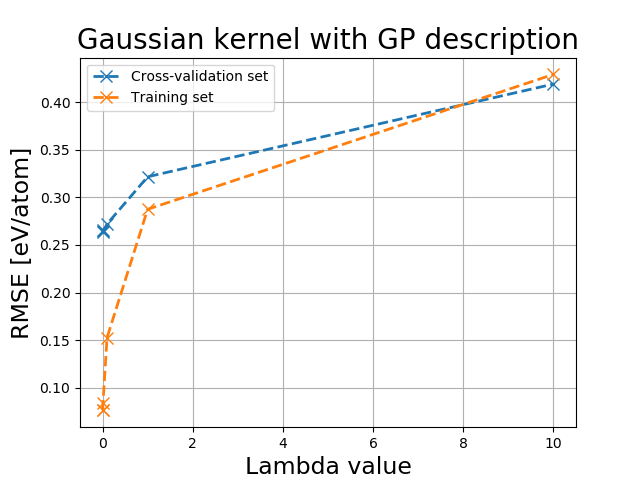
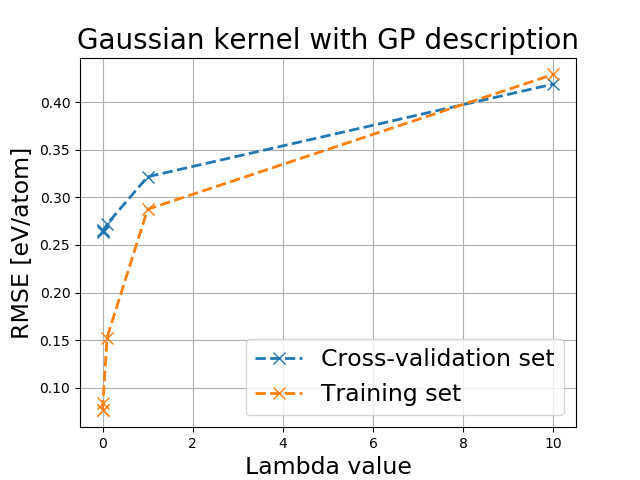
last shell

Changed region(s): [[0.4062, 0.6875, 0.875, 0.8438], [0.125, 0.125, 0.4375, 0.2188], [0.4062, 0.7812, 0.4688, 0.8438]]

diff --git a/KRR/KRR_on_test.py b/KRR/KRR_on_test.py
@@ -1,0 +1,120 @@
+#!/usr/bin/env python3
+# -*- coding: utf-8 -*-
+"""
+Created on Thu Nov 29 14:40:54 2018
+
+@author: Simon
+"""
+def frange(x, y, jump):
+  while x < y:
+    yield x
+    x += jump
+
+import os, sys
+sys.path.append(os.path.dirname(os.path.dirname(os.path.abspath(__file__))))
+
+from createLargerFeatureMatrix import simpleLargeMatrix, advanced_large_matrix
+from KRR_class import KernelRidgeRegression
+import pickle
+import numpy as np
+import numpy
+
+#Kernel matrices output folder
+folder = "KRR/Saved/Run 4/"
+
+
+if len(sys.argv)!=6:
+    print('Usage: \n"python3 KRR_script.py method"\nwhere method is one of linear polynomial gaussian laplacian')
+    sys.exit(1)
+
+method=sys.argv[1]
+lambd=float(sys.argv[2])
+Feature=str(sys.argv[3])
+prdf=str(sys.argv[4])
+Args=float(sys.argv[5])
+
+filename=str(prdf)
+
+if prdf=="default":path = "Saved matrices/03-01-2019 11.04/sorted_Cutoff25_noSingleElementKrystals/"
+elif prdf=="faulty": path = "Saved matrices/11-10-2018 11.36/sorted_Cutoff25_noSingleElementKrystals/"
+elif prdf=="newest": path = "Saved matrices/04-01-2019 21.56/sorted_Cutoff25_noSingleElementKrystals/"
+elif prdf=="deep": path = "Saved matrices/09-01-2019 16.03/sorted_Cutoff25_noSingleElementKrystals/"
+#%% Load training data
+featureMatrixFile = "train_featureMatrix.npy"
+atomicSymbolsListFile = "train_pickledAtomicSymbolsList.txt"
+energiesFile = "train_pickledEnergies.txt"
+
+if Feature=="SimpleLarge":
+    largeFeatureMatrix = simpleLargeMatrix(path,featureMatrixFile, atomicSymbolsListFile)
+    folder=folder+"SimpleLarge/"
+elif Feature=="GP":
+    largeFeatureMatrix = advanced_large_matrix(path,featureMatrixFile, atomicSymbolsListFile)
+    folder=folder+"GP/"
+
+with open(path+energiesFile, "rb") as pickleFile:
+    energies = pickle.load(pickleFile)
+
+largeFeatureMatrix.shape = (largeFeatureMatrix.shape[0], -1)
+
+X = largeFeatureMatrix
+Y = np.array(energies)
+
+#%% Load  Validation data
+
+featureMatrixFileValidate = "test_featureMatrix.npy"
+atomicSymbolsListFileValidate = "test_pickledAtomicSymbolsList.txt"
+energiesFileValidate = "test_pickledEnergies.txt"
+if Feature=="SimpleLarge":
+    largeFeatureMatrixValidate = simpleLargeMatrix(path,featureMatrixFileValidate, atomicSymbolsListFileValidate)
+elif Feature=="GP":
+    largeFeatureMatrixValidate = advanced_large_matrix(path,featureMatrixFileValidate, atomicSymbolsListFileValidate)
+
+with open(path+energiesFileValidate, "rb") as pickleFile:
+    energiesValidate = pickle.load(pickleFile)
+
+largeFeatureMatrixValidate.shape = (largeFeatureMatrixValidate.shape[0], -1)
+
+Xv = largeFeatureMatrixValidate
+Yv = np.array(energiesValidate)
+
+if method=='linear':
+    folder=folder+"lin/"
+    KRR=KernelRidgeRegression(type="linear")
+    KRR.set_var(c1=Args, lambd=lambd)
+    KRR.fit(X,Y, "error")
+    out1=KRR.rmse
+    KRR.predict(Xv,Yv)
+    out2=KRR.rmse
+    print("\nTrain: " + str(out1) + " Validation: " + str(out2)+"\n", flush=True)
+elif method=='polynomial':
+    try:
+        KRR=KernelRidgeRegression(type="poly")
+        KRR.set_var(c1=c1_list[c1],c2=c2_list[c2],d=d_list[d], lambd=lambd)
+        KRR.fit(X,Y, "error")
+        out1=KRR.rmse
+        KRR.predict(Xv,Yv)
+        out2=KRR.rmse
+        print("\nTrain: " + str(out1) + " Validation: " + str(out2)+"\n", flush=True)
+    except numpy.linalg.linalg.LinAlgError:
+        out1=-1
+        out2=-1
+if method=='gaussian':
+    folder=folder+"gauss/"
+    KRR=KernelRidgeRegression(type="gauss")
+    KRR.set_var(sigma=Args, lambd=lambd)
+    KRR.fit(X,Y, "error")
+    out1=KRR.rmse
+    KRR.predict(Xv,Yv)
+    out2=KRR.rmse
+    print("\nTrain: " + str(out1) + " Validation: " + str(out2)+"\n", flush=True)
+elif method=='laplacian':
+    folder=folder+"laplace/"
+    KRR=KernelRidgeRegression(type="laplace")
+    KRR.set_var(sigma=Args, lambd=lambd)
+    KRR.fit(X,Y, "error")
+    out1=KRR.rmse
+    KRR.predict(Xv,Yv)
+    out2=KRR.rmse
+    print("\nTrain: " + str(out1) + " Validation: " + str(out2)+"\n", flush=True)
+with open(folder+filename+".csv", "a") as myfile:
+    myfile.write(str(lambd)+", "+str(Args)+", "+str(out1)+", "+str(out2)+"\n")

diff --git a/KRR/Saved/Run 4/batch_plots.py b/KRR/Saved/Run 4/batch_plots.py
@@ -43,7 +43,9 @@ y1=np.asarray(results[results.columns[3]])
 y2=np.asarray(results[results.columns[2]])
 plt.plot(x[sort],y1[sort], marker='x', linestyle='dashed', linewidth=2, markersize=8, label="Cross-validation set")
 plt.plot(x[sort],y2[sort], marker='x', linestyle='dashed', linewidth=2, markersize=8, label="Training set")
-plt.legend(loc='upper left')
+plt.legend(loc='lower right')
+plt.title("Effect of Regularization", fontsize=20)
+plt.tight_layout()
 plt.savefig("lin_lam.png")
 plt.show()
 
@@ -58,7 +60,7 @@ plt.figure(1)
 plt.ion()
 plt.title("Gaussian kernel with GP description", fontsize=20)
 plt.xlabel("Sigma value", fontsize=17)
-plt.ylabel("rmse [eV/atom]", fontsize=17)
+plt.ylabel("RMSE [eV/atom]", fontsize=17)
 # Draw the grid lines
 plt.grid(True)
 for l in lambd:
@@ -68,7 +70,7 @@ for l in lambd:
     y=np.asarray(results[results.columns[3]]) 
     plt.plot(x[sort],y[sort], marker='x', linestyle='dashed', linewidth=2, markersize=8, label="using lambda = "+str(l))
 plt.ylim(0.2,0.7)
-plt.legend(loc='upper left', fontsize=17)
+plt.legend(loc='lower right', fontsize=17)
 plt.savefig("kernel_gauss.png")
 plt.show()
 plt.figure(4)
@@ -87,7 +89,9 @@ y1=np.asarray(results[results.columns[3]])
 y2=np.asarray(results[results.columns[2]])
 plt.plot(x[sort],y1[sort], marker='x', linestyle='dashed', linewidth=2, markersize=8, label="Cross-validation set")
 plt.plot(x[sort],y2[sort], marker='x', linestyle='dashed', linewidth=2, markersize=8, label="Training set")
-plt.legend(loc='upper left')
+plt.legend(loc='lower right', fontsize=17)
+plt.title("Gaussian kernel with GP description", fontsize=20)
+
 plt.savefig("gauss_lam.png")
 plt.show()
 
@@ -131,7 +135,8 @@ y1=np.asarray(results[results.columns[3]])
 y2=np.asarray(results[results.columns[2]])
 plt.plot(x[sort],y1[sort], marker='x', linestyle='dashed', linewidth=2, markersize=8, label="Cross-validation set")
 plt.plot(x[sort],y2[sort], marker='x', linestyle='dashed', linewidth=2, markersize=8, label="Training set")
-plt.legend(loc='upper left', fontsize=17)
+plt.legend(loc='lower right', fontsize=17)
+plt.title("Laplacian kernel with GP description", fontsize=20)
 plt.savefig("laplace_lam.png")
 plt.show()
 

diff --git a/KRR/writesingleshell.py b/KRR/writesingleshell.py
@@ -4,9 +4,9 @@ jobname='testing'
 output='output/4_0.1_faulty_gauss-%J.out'
 mem='10GB'
 runtime='45:00'
-run='KRR/KRR_script_4_faulty.py gaussian 0.1 GP'
+run='KRR/KRR_on_test.py linear 0.8193310105066505 GP newest -0.0004232564074429044'
 new_entry='#!/bin/bash\n##Kør på cpu\n#BSUB -q hpc\n##Navn på job\n#BSUB -J '+jobname+'\n##Output fil\n#BSUB -o '+output+'\n##Antal kerner\n#BSUB -n 1\n##Om kernerne må være på forskellige computere\n#BSUB -R "span[hosts=1]"\n##Ram pr kerne\n#BSUB -R "rusage[mem='+mem+']"\n##Hvor lang tid må den køre hh:mm\n#BSUB -W '+runtime+'\n##Email når jobbet starter\n#BSUB -B\n##og stopper\n#BSUB -N\nmodule purge\nmodule load python3\npython3 '+run
 #Shell script name
 file="test"
-with open("Shellscripts/batch/2/"+file+".sh", "w+",encoding='utf-8') as g:
+with open("Shellscripts/batch/3/"+file+".sh", "w+",encoding='utf-8') as g:
     g.write(new_entry)
